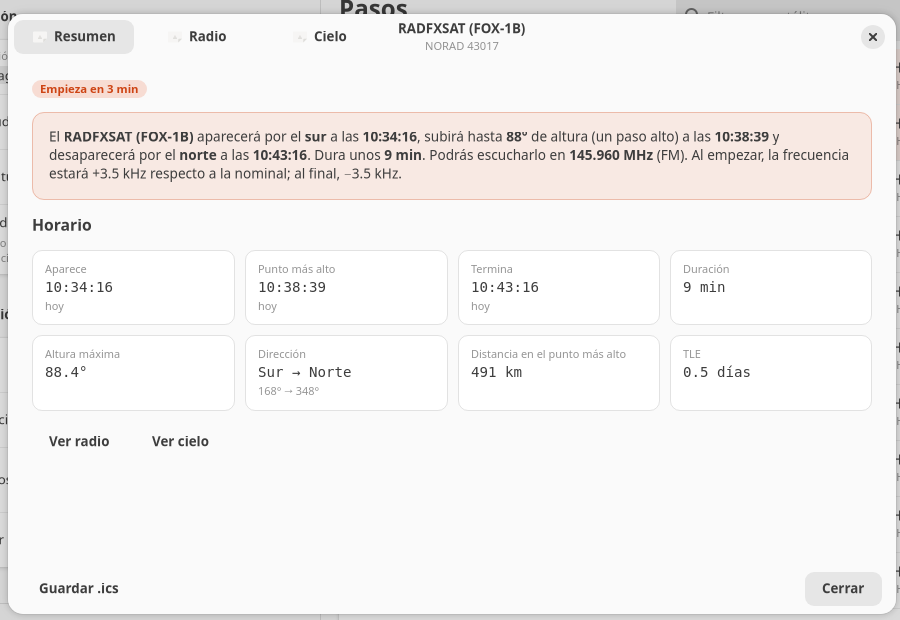
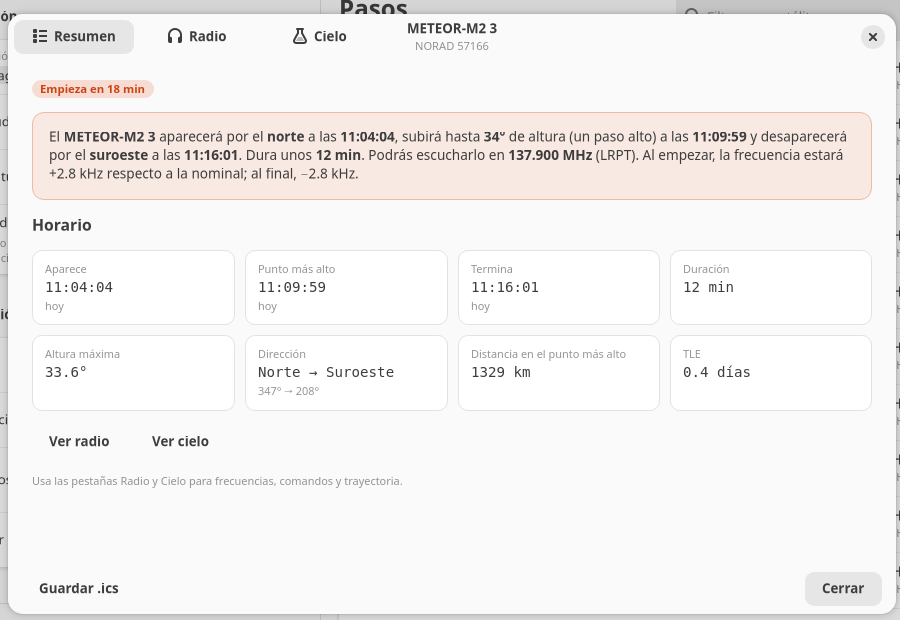
Corregir iconos de las pestañas del detalle (1.5.1)

diff --git a/desktop/pasoorbital_gui/window.py b/desktop/pasoorbital_gui/window.py
@@ -587,9 +587,12 @@ class PasoOrbitalWindow(Adw.ApplicationWindow):
 
         toolbar.add_top_bar(header)
 
-        stack.add_titled(self._detail_summary_page(item, stack), "summary", "Resumen")
-        stack.add_titled(self._detail_radio_page(item), "radio", "Radio")
-        stack.add_titled(self._detail_sky_page(item), "sky", "Cielo")
+        page = stack.add_titled(self._detail_summary_page(item, stack), "summary", "Resumen")
+        page.set_icon_name("view-list-symbolic")
+        page = stack.add_titled(self._detail_radio_page(item), "radio", "Radio")
+        page.set_icon_name("audio-headphones-symbolic")
+        page = stack.add_titled(self._detail_sky_page(item), "sky", "Cielo")
+        page.set_icon_name("applications-science-symbolic")
         stack.set_visible_child_name("summary")
         stack.set_vexpand(True)
         toolbar.set_content(stack)

diff --git a/pasoorbital/geo.py b/pasoorbital/geo.py
@@ -15,7 +15,7 @@ import urllib.parse
 import urllib.request
 from pathlib import Path
 
-USER_AGENT = "pasoorbital/1.5 (herramienta local de prediccion de pasos)"
+USER_AGENT = "pasoorbital/1.5.1 (herramienta local de prediccion de pasos)"
 NOMINATIM = "https://nominatim.openstreetmap.org/search"
 PHOTON = "https://photon.komoot.io/api/"
 ELEVATION = "https://api.open-meteo.com/v1/elevation"

diff --git a/app.py b/app.py
@@ -302,7 +302,7 @@ def api_elevation(query: dict) -> dict:
 
 
 class Handler(BaseHTTPRequestHandler):
-    server_version = "PasoOrbital/1.5"
+    server_version = "PasoOrbital/1.5.1"
     protocol_version = "HTTP/1.1"
 
     # ------------------------------------------------------------- helpers

diff --git a/pasoorbital/__init__.py b/pasoorbital/__init__.py
@@ -1,3 +1,3 @@
 """PasoOrbital: predicción de pasos de satélites para escucha radio."""
 
-__version__ = "1.5.0"
+__version__ = "1.5.1"

diff --git a/desktop/pasoorbital_gui/__init__.py b/desktop/pasoorbital_gui/__init__.py
@@ -1,3 +1,3 @@
 """PasoOrbital para GNOME."""
 
-__version__ = "1.5.0"
+__version__ = "1.5.1"

diff --git a/DESARROLLO.md b/DESARROLLO.md
@@ -2,7 +2,7 @@
 
 > **Para retomar el proyecto sin perder contexto.**
 > Autores: Marcos Matamala Fernandez y DeepSeek Harness (deepseek-flash).
-> Última actualización: 18 de octubre de 2026 · Versión: 1.5 (detalle modal)
+> Última actualización: 18 de octubre de 2026 · Versión: 1.5.1 (detalle modal)
 
 ---
 
@@ -409,6 +409,7 @@ pasoorbital.example.com {
 | Oct 2026 | Corregido el comando de escucha LRPT de SatDump: el primer argumento es el pipeline (`meteor_m2-x_lrpt`), el segundo la carpeta de salida. |
 | Oct 2026 | Tabla: fechas relativas («hoy», «mañana», «Lunes 19 oct»), duración sin segundos y direcciones con nombre completo («Sur → Noreste»). |
 | Oct 2026 | Tabla simplificada: AOS pasa a «Aparece», se elimina la columna LOS (basta con Aparece + Duración) y el detalle usa «Punto más alto», «Termina» y «Dirección». |
+| Oct 2026 | Versión 1.5.1: corregidos los iconos rotos de las pestañas del detalle. |
 | Oct 2026 | Versión 1.5: detalle modal con pestañas Resumen, Radio y Cielo; sin scroll y con gráfico de elevación. |
 | Oct 2026 | Versión 1.4: avisos de escritorio 5 minutos antes y resaltado de filas; solo app GNOME. |
 | Oct 2026 | Mascota **Astro** (zorro de Darwin): ilustración final, variantes y versión vectorial simplificada; especificación en `docs/astro.yaml`. |
@@ -459,7 +460,7 @@ PasoOrbital sin navegador ni servidor HTTP.
 | `desktop/pasoorbital_gui/format.py` | Fechas relativas, duración, resumen, comandos e ICS. |
 | `desktop/pasoorbital_gui/skyplot.py` | Gráfico polar con Cairo. |
 | `desktop/pasoorbital_gui/style.css` | Estilos sobre libadwaita. |
-| `desktop/build_deb.sh` | Genera `desktop/dist/pasoorbital_1.5.0-1_all.deb`. |
+| `desktop/build_deb.sh` | Genera `desktop/dist/pasoorbital_1.5.1-1_all.deb`. |
 | `desktop/pasoorbital.desktop`, icono, metainfo y manpage | Integración con GNOME. |
 
 - **Dependencias del paquete:** `python3-gi`, `gir1.2-gtk-4.0`, `gir1.2-adw-1`,

diff --git a/desktop/README.md b/desktop/README.md
@@ -22,12 +22,12 @@ cd desktop
 ./build_deb.sh
 ```
 
-El paquete queda en `desktop/dist/pasoorbital_1.5.0-1_all.deb`.
+El paquete queda en `desktop/dist/pasoorbital_1.5.1-1_all.deb`.
 
 ## Instalar
 
 ```bash
-sudo apt install ./desktop/dist/pasoorbital_1.5.0-1_all.deb
+sudo apt install ./desktop/dist/pasoorbital_1.5.1-1_all.deb
 ```
 
 > **Aviso de apt al instalar un `.deb` local:** si aparece
@@ -38,8 +38,8 @@ sudo apt install ./desktop/dist/pasoorbital_1.5.0-1_all.deb
 > desde allí:
 >
 > ```bash
-> cp dist/pasoorbital_1.5.0-1_all.deb /tmp/
-> sudo apt install /tmp/pasoorbital_1.5.0-1_all.deb
+> cp dist/pasoorbital_1.5.1-1_all.deb /tmp/
+> sudo apt install /tmp/pasoorbital_1.5.1-1_all.deb
 > ```
 
 

diff --git a/README.md b/README.md
@@ -97,7 +97,7 @@ navegador, empaquetada como `.deb`.
 ```bash
 cd desktop
 ./build_deb.sh
-sudo apt install ./dist/pasoorbital_1.5.0-1_all.deb
+sudo apt install ./dist/pasoorbital_1.5.1-1_all.deb
 pasoorbital-gui
 ```
 
@@ -109,8 +109,8 @@ pasoorbital-gui
 > desde allí:
 >
 > ```bash
-> cp desktop/dist/pasoorbital_1.5.0-1_all.deb /tmp/
-> sudo apt install /tmp/pasoorbital_1.5.0-1_all.deb
+> cp desktop/dist/pasoorbital_1.5.1-1_all.deb /tmp/
+> sudo apt install /tmp/pasoorbital_1.5.1-1_all.deb
 > ```
 
 Depende de `python3-gi`, `gir1.2-gtk-4.0`, `gir1.2-adw-1` (1.6 o superior),

diff --git a/CHANGELOG.md b/CHANGELOG.md
@@ -3,6 +3,13 @@
 Formato basado en [Keep a Changelog](https://keepachangelog.com/es-ES/1.1.0/)
 y versionado [SemVer](https://semver.org/lang/es/).
 
+## [1.5.1] - 2026-10-18
+
+### Corregido
+
+- Los iconos de las pestañas **Resumen**, **Radio** y **Cielo** aparecían como
+  imágenes rotas. Ahora usan iconos simbólicos válidos de Adwaita.
+
 ## [1.5.0] - 2026-10-18
 
 ### Añadido
